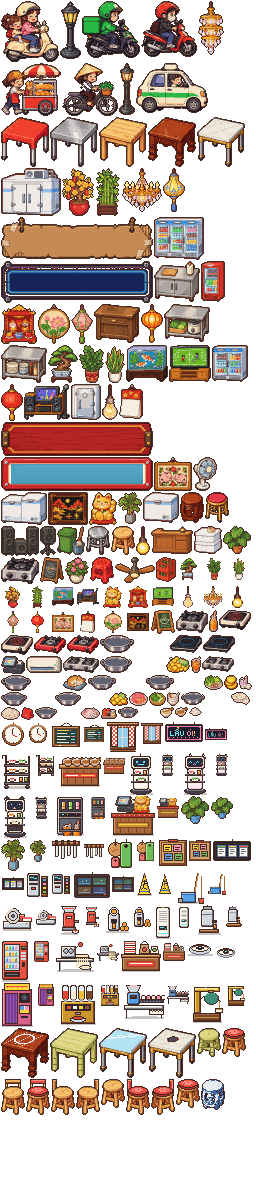
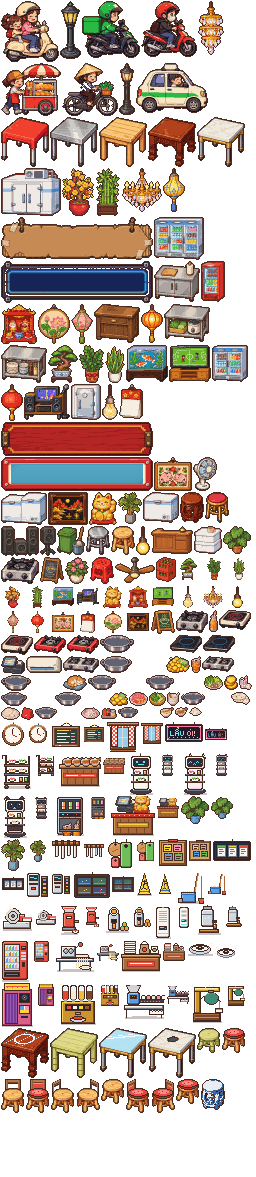
Lẩu Ơi v1.18m: vẽ lại ghế tựa cho đồng bộ, ghế thấp gọn hơn để không chồng lên nhau
- Ghế tựa lưng mọi hướng dùng chung kiểu khung (2 trụ + thanh trên) như ghế sau bàn;
  ghế hai bên bàn có tựa nhìn nghiêng (khung bình hành) thay cho cây que
- Mọi dáng ghế mới hạ thấp chân 4px → ghế trước bàn không lấn sang bàn hàng dưới, đỡ rối mắt
- Ghế tựa có đệm: đệm đỏ trên tựa cả 3 hướng; sw lauoi-v43

Claude-Session: https://claude.ai/code/session_01BD8ysNy2UsXiFAiTavnXvs

diff --git a/web/quanlau/src/art/data/props.js b/web/quanlau/src/art/data/props.js
@@ -1,2 +1,2 @@
 // generated by tools/art/pack.py — do not edit
-export default {"file":"props.png","frames":{"xemay2":[1,1,58,61,29,60],"lamp":[60,1,21,58,10,57],"grab":[82,1,58,57,29,56],"xemay":[141,1,56,56,28,55],"den_chum2":[198,1,26,54,13,1],"xebanhmi":[1,63,60,53,30,52],"xedap":[62,63,56,53,28,52],"lamp2":[119,63,16,52,8,51],"taxi":[136,63,72,50,36,49],"table0":[1,117,48,50,24,34],"table1":[50,117,48,50,24,34],"table2":[99,117,48,50,24,34],"table3":[148,117,48,50,24,34],"table4":[197,117,48,50,24,34],"kho4":[1,168,60,48,30,47],"cay_mai":[62,168,32,48,16,47],"cay_tre":[95,168,26,48,13,47],"den_chum1":[122,168,40,44,20,1],"den_hoian2":[163,168,22,44,11,1],"sign1":[1,217,152,43,76,21],"cooler2":[154,217,50,43,25,42],"sign4":[1,261,152,42,76,21],"counter_c":[154,261,46,41,23,40],"cooler0":[201,261,24,41,12,40],"db_ongdia":[1,304,36,40,18,39],"tuong_quat":[38,304,32,40,16,1],"den_hoian1":[71,304,22,40,11,1],"counter_wood":[94,304,46,39,23,38],"den_cam":[141,304,22,39,11,1],"counter_a":[164,304,46,38,23,37],"counter_b":[1,345,46,38,23,37],"cay_bonsai":[48,345,30,38,15,37],"cay_kimtien":[79,345,25,38,12,37],"cay_luoiho":[105,345,20,38,10,37],"db_beca":[126,345,42,37,21,36],"db_tivi":[169,345,42,37,21,36],"cooler1":[212,345,36,37,18,36],"den_long_do":[1,384,22,37,11,1],"db_karaoke":[24,384,46,36,23,35],"kho3":[71,384,30,36,15,35],"den_bong":[102,384,16,36,8,1],"tuong_lich":[119,384,24,35,12,1],"sign2":[1,422,152,34,76,17],"sign3":[1,457,152,34,76,17],"tuong_dongho":[154,457,38,34,19,1],"fan":[193,457,24,34,12,33],"kho2":[1,492,46,33,23,32],"tuong_sonmai":[48,492,40,33,20,32],"db_meo":[89,492,28,33,14,32],"plant_palm":[118,492,24,32,12,31],"kho1":[143,492,36,31,18,30],"stool3":[180,492,24,31,12,30],"stool4":[205,492,24,31,12,30],"spk2":[1,526,38,30,19,29],"spk1":[40,526,16,30,8,29],"bin":[57,526,28,29,14,28],"stool1":[86,526,24,29,12,28],"stool2":[111,526,24,29,12,28],"den_day":[136,526,14,29,7,1],"desk":[151,526,42,28,21,27],"kho0":[194,526,28,28,14,27],"plant_monstera":[223,526,28,28,14,27],"stove4":[1,557,38,27,19,26],"chalk":[40,557,24,27,12,26],"plant_flower":[65,557,24,27,12,26],"stool0":[90,557,24,27,12,26],"ceilfan":[115,557,40,26,20,25],"crates":[156,557,20,25,10,24],"ico_cay_bonsai":[177,557,24,24,12,12],"ico_cay_kimtien":[202,557,24,24,12,12],"ico_cay_luoiho":[227,557,24,24,12,12],"ico_cay_mai":[1,585,24,24,12,12],"ico_cay_tre":[26,585,24,24,12,12],"ico_db_beca":[51,585,24,24,12,12],"ico_db_karaoke":[76,585,24,24,12,12],"ico_db_meo":[101,585,24,24,12,12],"ico_db_ongdia":[126,585,24,24,12,12],"ico_db_tivi":[151,585,24,24,12,12],"ico_den_bong":[176,585,24,24,12,12],"ico_den_chum":[201,585,24,24,12,12],"ico_den_day":[226,585,24,24,12,12],"ico_den_hoian":[1,610,24,24,12,12],"ico_den_long_do":[26,610,24,24,12,12],"ico_tuong_dongho":[51,610,24,24,12,12],"ico_tuong_lich":[76,610,24,24,12,12],"ico_tuong_quat":[101,610,24,24,12,12],"ico_tuong_sonmai":[126,610,24,24,12,12],"menuboard":[151,610,24,24,12,23],"tburner4":[176,610,32,23,16,22],"bottle_orange":[209,610,9,22,4,21],"stove2":[219,610,32,20,16,19],"tburner2":[1,635,32,20,16,19],"stove0":[34,635,32,19,16,18],"tburner0":[67,635,32,19,16,18],"pot4_s":[100,635,34,18,17,17],"pot4_s_m":[135,635,34,18,17,17],"stove3":[170,635,32,18,16,17],"tburner3":[203,635,32,18,16,17],"pos":[1,656,24,18,12,17],"aircon":[26,656,36,17,18,16],"stove1":[63,656,36,17,18,16],"pot3_s":[100,656,32,17,16,16],"pot3_s_m":[133,656,32,17,16,16],"coin_l":[166,656,24,17,12,16],"cup_tea":[191,656,10,17,5,16],"tburner1":[202,656,32,16,16,15],"pot2_s":[1,675,30,16,15,15],"pot2_s_m":[32,675,30,16,15,15],"cat":[63,675,24,16,12,15],"pot1_s":[88,675,28,15,14,14],"pot1_s_m":[117,675,28,15,14,14],"pot4_t":[146,675,28,15,14,14],"pot4_t_m":[175,675,28,15,14,14],"plate_veg":[204,675,19,15,9,14],"coin_s":[224,675,14,15,7,14],"dirty_cup":[239,675,13,15,6,14],"pot0_s":[1,692,26,14,13,13],"pot0_s_m":[28,692,26,14,13,13],"pot3_t":[55,692,26,14,13,13],"pot3_t_m":[82,692,26,14,13,13],"coin_mid":[109,692,19,14,9,13],"plate_meat":[129,692,19,14,9,13],"plate_herb":[149,692,17,14,8,13],"dirty_bowls":[167,692,13,14,6,13],"pot2_t":[181,692,24,13,12,12],"pot2_t_m":[206,692,24,13,12,12],"dirty_plate":[231,692,19,13,9,12],"plate_noodle":[1,707,19,13,9,12],"reserved":[21,707,13,13,6,12],"pot1_t":[35,707,22,12,11,11],"pot1_t_m":[58,707,22,12,11,11],"plate_fish":[81,707,19,12,9,11],"condiments":[101,707,16,12,8,11],"pot0_t":[118,707,20,11,10,10],"pot0_t_m":[139,707,20,11,10,10],"bowl_noodle":[160,707,14,11,7,10],"bowl_sauce":[175,707,13,10,6,9],"napkins":[189,707,13,9,6,8],"tuong_clock":[1,722,24,26,12,1],"ico_tuong_clock":[26,722,24,24,12,12],"tuong_bangmon":[51,722,30,26,15,1],"ico_tuong_bangmon":[82,722,24,24,12,12],"tuong_rem":[107,722,32,30,16,1],"ico_tuong_rem":[140,722,24,24,12,12],"tuong_led":[165,722,38,20,19,1],"ico_tuong_led":[204,722,24,24,12,12],"db_xeday":[1,753,32,36,16,35],"ico_db_xeday":[34,753,24,24,12,12],"db_quaycham":[59,753,42,34,21,33],"ico_db_quaycham":[102,753,24,24,12,12],"db_robot":[127,753,28,42,14,41],"ico_db_robot":[156,753,24,24,12,12],"db_robotmeo":[181,753,28,42,14,41],"ico_db_robotmeo":[210,753,24,24,12,12],"db_robotgau":[1,796,28,42,14,41],"ico_db_robotgau":[30,796,24,24,12,12],"db_mayphanuoc":[55,796,30,40,15,39],"ico_db_mayphanuoc":[86,796,24,24,12,12],"db_quaythungan":[111,796,44,40,22,39],"ico_db_quaythungan":[156,796,24,24,12,12],"cay_trauba":[181,796,28,28,14,27],"ico_cay_trauba":[210,796,24,24,12,12],"cay_cau":[1,839,24,32,12,31],"ico_cay_cau":[26,839,24,24,12,12],"tuong_giadao":[51,839,30,20,15,1],"ico_tuong_giadao":[82,839,24,24,12,12],"tuong_thot":[107,839,26,30,13,1],"ico_tuong_thot":[134,839,24,24,12,12],"tuong_lichsk":[159,839,28,28,14,1],"ico_tuong_lichsk":[188,839,24,24,12,12],"tuong_kds":[213,839,38,22,19,1],"ico_tuong_kds":[1,872,24,24,12,12],"tuong_chamcong":[26,872,22,26,11,1],"ico_tuong_chamcong":[49,872,24,24,12,12],"tuong_camera":[74,872,36,26,18,1],"ico_tuong_camera":[111,872,24,24,12,12],"db_sanuot":[136,872,16,24,8,23],"ico_db_sanuot":[153,872,24,24,12,12],"db_choilau":[178,872,26,32,13,31],"ico_db_choilau":[205,872,24,24,12,12],"db_maythai":[1,905,32,26,16,25],"ico_db_maythai":[34,905,24,24,12,12],"db_mayxay":[59,905,20,30,10,29],"ico_db_mayxay":[80,905,24,24,12,12],"db_mayvatcam":[105,905,24,28,12,27],"ico_db_mayvatcam":[130,905,24,24,12,12],"db_locKK":[155,905,16,34,8,33],"ico_db_locKK":[172,905,24,24,12,12],"db_mayutra":[197,905,24,30,12,29],"ico_db_mayutra":[222,905,24,24,12,12],"db_bannuoc":[1,940,28,42,14,41],"ico_db_bannuoc":[30,940,24,24,12,12],"db_daychuyenmi":[55,940,40,32,20,31],"ico_db_daychuyenmi":[96,940,24,24,12,12],"db_donggoi":[121,940,40,32,20,31],"ico_db_donggoi":[162,940,24,24,12,12],"db_robotlau":[187,940,26,16,13,15],"ico_db_robotlau":[214,940,24,24,12,12],"db_photobooth":[1,983,32,44,16,43],"ico_db_photobooth":[34,983,24,24,12,12],"db_bachvi":[59,983,38,42,19,41],"ico_db_bachvi":[98,983,24,24,12,12],"db_xuongvien":[123,983,42,36,21,35],"ico_db_xuongvien":[166,983,24,24,12,12],"db_phatra":[191,983,32,40,16,39],"ico_db_phatra":[224,983,24,24,12,12],"tshape_tron":[1,1028,48,50,24,34],"tshape_tre":[50,1028,48,50,24,34],"tshape_kinh":[99,1028,48,50,24,34],"tshape_bepam":[148,1028,48,50,24,34],"cshape_tre":[197,1028,24,29,12,28],"cshape_dem":[222,1028,24,29,12,28],"cshape_tua":[1,1079,24,36,12,35],"cshape_tuadem":[26,1079,24,36,12,35],"cshape_tua_l":[51,1079,24,36,12,35],"cshape_tua_r":[76,1079,24,36,12,35],"cshape_tua_f":[101,1079,24,29,12,28],"cshape_tuadem_l":[126,1079,24,36,12,35],"cshape_tuadem_r":[151,1079,24,36,12,35],"cshape_tuadem_f":[176,1079,24,29,12,28],"cshape_banh":[201,1079,24,31,12,30]}};
+export default {"file":"props.png","frames":{"xemay2":[1,1,58,61,29,60],"lamp":[60,1,21,58,10,57],"grab":[82,1,58,57,29,56],"xemay":[141,1,56,56,28,55],"den_chum2":[198,1,26,54,13,1],"xebanhmi":[1,63,60,53,30,52],"xedap":[62,63,56,53,28,52],"lamp2":[119,63,16,52,8,51],"taxi":[136,63,72,50,36,49],"table0":[1,117,48,50,24,34],"table1":[50,117,48,50,24,34],"table2":[99,117,48,50,24,34],"table3":[148,117,48,50,24,34],"table4":[197,117,48,50,24,34],"kho4":[1,168,60,48,30,47],"cay_mai":[62,168,32,48,16,47],"cay_tre":[95,168,26,48,13,47],"den_chum1":[122,168,40,44,20,1],"den_hoian2":[163,168,22,44,11,1],"sign1":[1,217,152,43,76,21],"cooler2":[154,217,50,43,25,42],"sign4":[1,261,152,42,76,21],"counter_c":[154,261,46,41,23,40],"cooler0":[201,261,24,41,12,40],"db_ongdia":[1,304,36,40,18,39],"tuong_quat":[38,304,32,40,16,1],"den_hoian1":[71,304,22,40,11,1],"counter_wood":[94,304,46,39,23,38],"den_cam":[141,304,22,39,11,1],"counter_a":[164,304,46,38,23,37],"counter_b":[1,345,46,38,23,37],"cay_bonsai":[48,345,30,38,15,37],"cay_kimtien":[79,345,25,38,12,37],"cay_luoiho":[105,345,20,38,10,37],"db_beca":[126,345,42,37,21,36],"db_tivi":[169,345,42,37,21,36],"cooler1":[212,345,36,37,18,36],"den_long_do":[1,384,22,37,11,1],"db_karaoke":[24,384,46,36,23,35],"kho3":[71,384,30,36,15,35],"den_bong":[102,384,16,36,8,1],"tuong_lich":[119,384,24,35,12,1],"sign2":[1,422,152,34,76,17],"sign3":[1,457,152,34,76,17],"tuong_dongho":[154,457,38,34,19,1],"fan":[193,457,24,34,12,33],"kho2":[1,492,46,33,23,32],"tuong_sonmai":[48,492,40,33,20,32],"db_meo":[89,492,28,33,14,32],"plant_palm":[118,492,24,32,12,31],"kho1":[143,492,36,31,18,30],"stool3":[180,492,24,31,12,30],"stool4":[205,492,24,31,12,30],"spk2":[1,526,38,30,19,29],"spk1":[40,526,16,30,8,29],"bin":[57,526,28,29,14,28],"stool1":[86,526,24,29,12,28],"stool2":[111,526,24,29,12,28],"den_day":[136,526,14,29,7,1],"desk":[151,526,42,28,21,27],"kho0":[194,526,28,28,14,27],"plant_monstera":[223,526,28,28,14,27],"stove4":[1,557,38,27,19,26],"chalk":[40,557,24,27,12,26],"plant_flower":[65,557,24,27,12,26],"stool0":[90,557,24,27,12,26],"ceilfan":[115,557,40,26,20,25],"crates":[156,557,20,25,10,24],"ico_cay_bonsai":[177,557,24,24,12,12],"ico_cay_kimtien":[202,557,24,24,12,12],"ico_cay_luoiho":[227,557,24,24,12,12],"ico_cay_mai":[1,585,24,24,12,12],"ico_cay_tre":[26,585,24,24,12,12],"ico_db_beca":[51,585,24,24,12,12],"ico_db_karaoke":[76,585,24,24,12,12],"ico_db_meo":[101,585,24,24,12,12],"ico_db_ongdia":[126,585,24,24,12,12],"ico_db_tivi":[151,585,24,24,12,12],"ico_den_bong":[176,585,24,24,12,12],"ico_den_chum":[201,585,24,24,12,12],"ico_den_day":[226,585,24,24,12,12],"ico_den_hoian":[1,610,24,24,12,12],"ico_den_long_do":[26,610,24,24,12,12],"ico_tuong_dongho":[51,610,24,24,12,12],"ico_tuong_lich":[76,610,24,24,12,12],"ico_tuong_quat":[101,610,24,24,12,12],"ico_tuong_sonmai":[126,610,24,24,12,12],"menuboard":[151,610,24,24,12,23],"tburner4":[176,610,32,23,16,22],"bottle_orange":[209,610,9,22,4,21],"stove2":[219,610,32,20,16,19],"tburner2":[1,635,32,20,16,19],"stove0":[34,635,32,19,16,18],"tburner0":[67,635,32,19,16,18],"pot4_s":[100,635,34,18,17,17],"pot4_s_m":[135,635,34,18,17,17],"stove3":[170,635,32,18,16,17],"tburner3":[203,635,32,18,16,17],"pos":[1,656,24,18,12,17],"aircon":[26,656,36,17,18,16],"stove1":[63,656,36,17,18,16],"pot3_s":[100,656,32,17,16,16],"pot3_s_m":[133,656,32,17,16,16],"coin_l":[166,656,24,17,12,16],"cup_tea":[191,656,10,17,5,16],"tburner1":[202,656,32,16,16,15],"pot2_s":[1,675,30,16,15,15],"pot2_s_m":[32,675,30,16,15,15],"cat":[63,675,24,16,12,15],"pot1_s":[88,675,28,15,14,14],"pot1_s_m":[117,675,28,15,14,14],"pot4_t":[146,675,28,15,14,14],"pot4_t_m":[175,675,28,15,14,14],"plate_veg":[204,675,19,15,9,14],"coin_s":[224,675,14,15,7,14],"dirty_cup":[239,675,13,15,6,14],"pot0_s":[1,692,26,14,13,13],"pot0_s_m":[28,692,26,14,13,13],"pot3_t":[55,692,26,14,13,13],"pot3_t_m":[82,692,26,14,13,13],"coin_mid":[109,692,19,14,9,13],"plate_meat":[129,692,19,14,9,13],"plate_herb":[149,692,17,14,8,13],"dirty_bowls":[167,692,13,14,6,13],"pot2_t":[181,692,24,13,12,12],"pot2_t_m":[206,692,24,13,12,12],"dirty_plate":[231,692,19,13,9,12],"plate_noodle":[1,707,19,13,9,12],"reserved":[21,707,13,13,6,12],"pot1_t":[35,707,22,12,11,11],"pot1_t_m":[58,707,22,12,11,11],"plate_fish":[81,707,19,12,9,11],"condiments":[101,707,16,12,8,11],"pot0_t":[118,707,20,11,10,10],"pot0_t_m":[139,707,20,11,10,10],"bowl_noodle":[160,707,14,11,7,10],"bowl_sauce":[175,707,13,10,6,9],"napkins":[189,707,13,9,6,8],"tuong_clock":[1,722,24,26,12,1],"ico_tuong_clock":[26,722,24,24,12,12],"tuong_bangmon":[51,722,30,26,15,1],"ico_tuong_bangmon":[82,722,24,24,12,12],"tuong_rem":[107,722,32,30,16,1],"ico_tuong_rem":[140,722,24,24,12,12],"tuong_led":[165,722,38,20,19,1],"ico_tuong_led":[204,722,24,24,12,12],"db_xeday":[1,753,32,36,16,35],"ico_db_xeday":[34,753,24,24,12,12],"db_quaycham":[59,753,42,34,21,33],"ico_db_quaycham":[102,753,24,24,12,12],"db_robot":[127,753,28,42,14,41],"ico_db_robot":[156,753,24,24,12,12],"db_robotmeo":[181,753,28,42,14,41],"ico_db_robotmeo":[210,753,24,24,12,12],"db_robotgau":[1,796,28,42,14,41],"ico_db_robotgau":[30,796,24,24,12,12],"db_mayphanuoc":[55,796,30,40,15,39],"ico_db_mayphanuoc":[86,796,24,24,12,12],"db_quaythungan":[111,796,44,40,22,39],"ico_db_quaythungan":[156,796,24,24,12,12],"cay_trauba":[181,796,28,28,14,27],"ico_cay_trauba":[210,796,24,24,12,12],"cay_cau":[1,839,24,32,12,31],"ico_cay_cau":[26,839,24,24,12,12],"tuong_giadao":[51,839,30,20,15,1],"ico_tuong_giadao":[82,839,24,24,12,12],"tuong_thot":[107,839,26,30,13,1],"ico_tuong_thot":[134,839,24,24,12,12],"tuong_lichsk":[159,839,28,28,14,1],"ico_tuong_lichsk":[188,839,24,24,12,12],"tuong_kds":[213,839,38,22,19,1],"ico_tuong_kds":[1,872,24,24,12,12],"tuong_chamcong":[26,872,22,26,11,1],"ico_tuong_chamcong":[49,872,24,24,12,12],"tuong_camera":[74,872,36,26,18,1],"ico_tuong_camera":[111,872,24,24,12,12],"db_sanuot":[136,872,16,24,8,23],"ico_db_sanuot":[153,872,24,24,12,12],"db_choilau":[178,872,26,32,13,31],"ico_db_choilau":[205,872,24,24,12,12],"db_maythai":[1,905,32,26,16,25],"ico_db_maythai":[34,905,24,24,12,12],"db_mayxay":[59,905,20,30,10,29],"ico_db_mayxay":[80,905,24,24,12,12],"db_mayvatcam":[105,905,24,28,12,27],"ico_db_mayvatcam":[130,905,24,24,12,12],"db_locKK":[155,905,16,34,8,33],"ico_db_locKK":[172,905,24,24,12,12],"db_mayutra":[197,905,24,30,12,29],"ico_db_mayutra":[222,905,24,24,12,12],"db_bannuoc":[1,940,28,42,14,41],"ico_db_bannuoc":[30,940,24,24,12,12],"db_daychuyenmi":[55,940,40,32,20,31],"ico_db_daychuyenmi":[96,940,24,24,12,12],"db_donggoi":[121,940,40,32,20,31],"ico_db_donggoi":[162,940,24,24,12,12],"db_robotlau":[187,940,26,16,13,15],"ico_db_robotlau":[214,940,24,24,12,12],"db_photobooth":[1,983,32,44,16,43],"ico_db_photobooth":[34,983,24,24,12,12],"db_bachvi":[59,983,38,42,19,41],"ico_db_bachvi":[98,983,24,24,12,12],"db_xuongvien":[123,983,42,36,21,35],"ico_db_xuongvien":[166,983,24,24,12,12],"db_phatra":[191,983,32,40,16,39],"ico_db_phatra":[224,983,24,24,12,12],"tshape_tron":[1,1028,48,50,24,34],"tshape_tre":[50,1028,48,50,24,34],"tshape_kinh":[99,1028,48,50,24,34],"tshape_bepam":[148,1028,48,50,24,34],"cshape_tre":[197,1028,24,25,12,24],"cshape_dem":[222,1028,24,25,12,24],"cshape_tua":[1,1079,24,34,12,33],"cshape_tuadem":[26,1079,24,34,12,33],"cshape_tua_l":[51,1079,24,34,12,33],"cshape_tua_r":[76,1079,24,34,12,33],"cshape_tua_f":[101,1079,24,25,12,24],"cshape_tuadem_l":[126,1079,24,34,12,33],"cshape_tuadem_r":[151,1079,24,34,12,33],"cshape_tuadem_f":[176,1079,24,25,12,24],"cshape_banh":[201,1079,24,31,12,30]}};

diff --git a/web/quanlau/sw.js b/web/quanlau/sw.js
@@ -1,7 +1,7 @@
 // Lẩu Ơi! service worker (v1.2): makes the game installable as an app (Android "Cài đặt ứng dụng", desktop Chrome/Edge)
 // and lets it open without a connection. Network first: an online player always gets the newest files; the cached
 // copy is only used when the network fails. Saves live in localStorage and are never touched here.
-const CACHE = 'lauoi-v42';
+const CACHE = 'lauoi-v43';
 // Trang thật là /quanlau (vercel.json: trailingSlash:false) nên scope là "/quanlau", không phải "/quanlau/".
 const HOME = '/quanlau';
 const CORE = [HOME, 'index.html', 'style.css', 'manifest.json', 'src/main.js', 'assets/app/icon-192.png'];

diff --git a/web/quanlau/src/main.js b/web/quanlau/src/main.js
@@ -9,7 +9,7 @@ const AUTOSAVE_SEC = 15;
 
 // The CDN caches style.css (JS is served no-cache), so swap the plain <link> for a versioned one.
 // Bump CSS_VER on every deploy that touches style.css.
-const CSS_VER = '20261022p';
+const CSS_VER = '20261022q';
 (function freshCss() {
   try {
     const old = document.querySelector('link[rel="stylesheet"][href="style.css"]');
